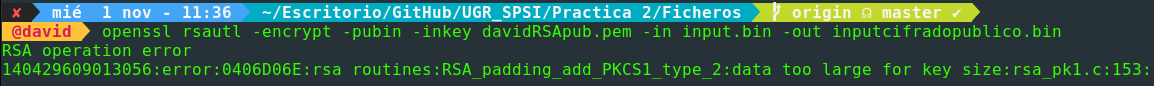
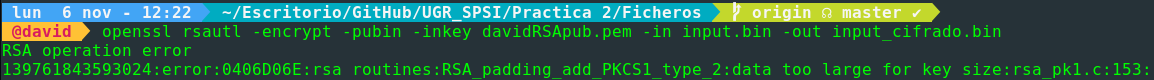
Ejercicios 1,2,3,4 y 5 completados

diff --git a/Practica 2/Practica_2.tex b/Practica 2/Practica_2.tex
@@ -76,6 +76,7 @@ linkcolor=webblue]{hyperref}
 }
 
 %%%%% Para cambiar el tipo de letra en el título de la sección %%%%%%%%%%%
+\usepackage{sectsty}
 \chapterfont{\fontfamily{pag}\selectfont} %% for chapter if you want
 \sectionfont{\fontfamily{pag}\selectfont}
 \subsectionfont{\fontfamily{pag}\selectfont}
@@ -123,7 +124,7 @@ Generad, cada uno de vosotros, una clave RSA (que contiene el par de claves) de 
 
 \section{Respuesta}
 \noindent
-Para generar el archivo davidRSAkey.pem que almacene una clave RSA de 768 bits realizamos los siguientes pasos:
+Generamos el archivo davidRSAkey.pem que almacene una clave RSA de 768 bits y mostramos el archivo por pantalla de la siguente manera:
 
 \begin{figure}[!hbp]
  \centering  \includegraphics[width=1\textwidth]{./Imagenes/1.png}
@@ -135,17 +136,31 @@ Para generar el archivo davidRSAkey.pem que almacene una clave RSA de 768 bits r
 
 \section{Enunciado}
 \noindent
-"Extraed" la clave provada contenida en el archivo nombreRSAkey.pem a otro archivo que tenga por nombre nombreRESApriv.pem. Este archivo deberá estar protegido por contraseña cifrándolo con AES-128. Mostrad sus valores.
+Extraed la clave provada contenida en el archivo nombreRSAkey.pem a otro archivo que tenga por nombre nombreRSApriv.pem. Este archivo deberá estar protegido por contraseña cifrándolo con AES-128. Mostrad sus valores.
 
 \section{Respuesta}
 \noindent
+Para extraer la clave privada del archivo davidRSAkey.pem en el archivo davidRSApriv.pem utilizaremos las siguientes opciones:
+
+\begin{itemize}
+ \item Con el modificador -aes128 ciframos el fichero de salida, utilizaremos como contraseña 0123456789.
+ \item Con el modificador -in indicamos el fichero del que se va a extraer la clave privada.
+ \item Con el modificador -out indicamos el fichero de salida en el que almacenaremos la clave privada.
+\end{itemize}
+
+\noindent
+El comando completo para extraer la clave privada sería el siguiente:
 
 \begin{figure}[!hbp]
- \centering  \includegraphics[width=1\textwidth]{./Imagenes/2.png}
+ \centering  \includegraphics[width=1\textwidth]{./Imagenes/2_0.png}
 \end{figure}
 
+\newpage
+\noindent
+Ahora muestro el contenido del fichero de salida:
+
 \begin{figure}[!hbp]
- \centering  \includegraphics[width=1\textwidth]{./Imagenes/3.png}
+ \centering  \includegraphics[width=1\textwidth]{./Imagenes/2_1.png}
 \end{figure}
 
 % ----------------------------------------------------------------
@@ -157,9 +172,26 @@ Extraed en nombreRSApub.pem la clave pública contenida en el archivo nombreRESA
 
 \section{Respuesta}
 \noindent
+Para extraer la clave privada del archivo davidRSAkey.pem en el archivo davidRSApriv.pem utilizaremos las siguientes opciones:
+
+\begin{itemize}
+ \item Con el modificador -pubout indicamos que queremos extraer la clave pública.
+ \item Con el modificador -in indicamos el fichero del que se va a extraer la clave pública.
+ \item Con el modificador -out indicamos el fichero de salida en el que almacenaremos la clave pública.
+\end{itemize}
+
+\noindent
+El comando completo para extraer la clave pública sería el siguiente:
 
 \begin{figure}[!hbp]
- \centering  \includegraphics[width=1\textwidth]{./Imagenes/4.png}
+ \centering  \includegraphics[width=1\textwidth]{./Imagenes/3_0.png}
+\end{figure}
+
+\noindent
+Ahora muestro el contenido del fichero de salida:
+
+\begin{figure}[!hbp]
+ \centering  \includegraphics[width=1\textwidth]{./Imagenes/3_1.png}
 \end{figure}
 
 
@@ -168,16 +200,33 @@ Extraed en nombreRSApub.pem la clave pública contenida en el archivo nombreRESA
 
 \section{Enunciado}
 \noindent
-Reutilizaremos el archivo binario input.bin de 1024 bits, todos ellos con valor 0, de la practica anterior. Intentad cifrar input.bin con vuestras claves pública. Explicad el resultado.
+Reutilizaremos el archivo binario input.bin de 1024 bits, todos ellos con valor 0, de la practica anterior.
 
 \section{Respuesta}
 \noindent
+Utilizaré el fichero input.bin de la anterior práctica. Su contenido es el siguiente:
+
+\begin{figure}[!hbp]
+ \centering  \includegraphics[width=1\textwidth]{./Imagenes/4.png}
+\end{figure}
+
+% ----------------------------------------------------------------
+\chapter{Ejercicio 5}
+
+\section{Enunciado}
+\noindent
+Intentad cifrar input.bin con vuestras claves pública. Explicad el resultado.
+
+\section{Respuesta}
+\noindent
+Al intentar cifrar el archivo input.bin utilizando la clave pública generada en anteriormente obtenemos un error debido a que el fichero es de 1024 bits y la clave publica es de 768 bits, por lo que al ser el mensaje mayor que la clave no puede cifrarse.
+
 \begin{figure}[!hbp]
  \centering  \includegraphics[width=1\textwidth]{./Imagenes/5.png}
 \end{figure}
 
 % ----------------------------------------------------------------
-\chapter{Ejercicio 5}
+\chapter{Ejercicio 6}
 
 \section{Enunciado}
 \noindent
@@ -193,7 +242,7 @@ Diseñad un cifrado híbrido, con RSA como criptosistema asimétrico. El modo de
 \noindent
 
 % ----------------------------------------------------------------
-\chapter{Ejercicio 6}
+\chapter{Ejercicio 7}
 
 \section{Enunciado}
 \noindent
@@ -203,7 +252,7 @@ Utilizando el criptosistema híbrido diseñado, cada uno debe cifrar el archivo 
 \noindent
 
 % ----------------------------------------------------------------
-\chapter{Ejercicio 7}
+\chapter{Ejercicio 8}
 
 \section{Enunciado}
 \noindent
@@ -213,7 +262,7 @@ Generad un archivo stdECparam.pem que contenga los parámetros públicos de una 
 \noindent
 
 % ----------------------------------------------------------------
-\chapter{Ejercicio 8}
+\chapter{Ejercicio 9}
 
 \section{Enunciado}
 \noindent
@@ -223,18 +272,18 @@ Generad cada uno de vosotros una clave para los parámetros anteriores. La clave
 \noindent
 
 % ----------------------------------------------------------------
-\chapter{Ejercicio 9}
+\chapter{Ejercicio 10}
 
 \section{Enunciado}
 \noindent
-"Extraed" la clave privada contenida en el archivo nombreECkey.pem a otro archivo que tenga por nombre nombreECpriv.pem. Este archivo deberá estar protegido por contraseña cifrándolo con 3DES. Mostrad sus valores.
+Extraed la clave privada contenida en el archivo nombreECkey.pem a otro archivo que tenga por nombre nombreECpriv.pem. Este archivo deberá estar protegido por contraseña cifrándolo con 3DES. Mostrad sus valores.
 
 \section{Respuesta}
 \noindent
 
 
 % ----------------------------------------------------------------
-\chapter{Ejercicio 10}
+\chapter{Ejercicio 11}
 
 \section{Enunciado}
 \noindent
